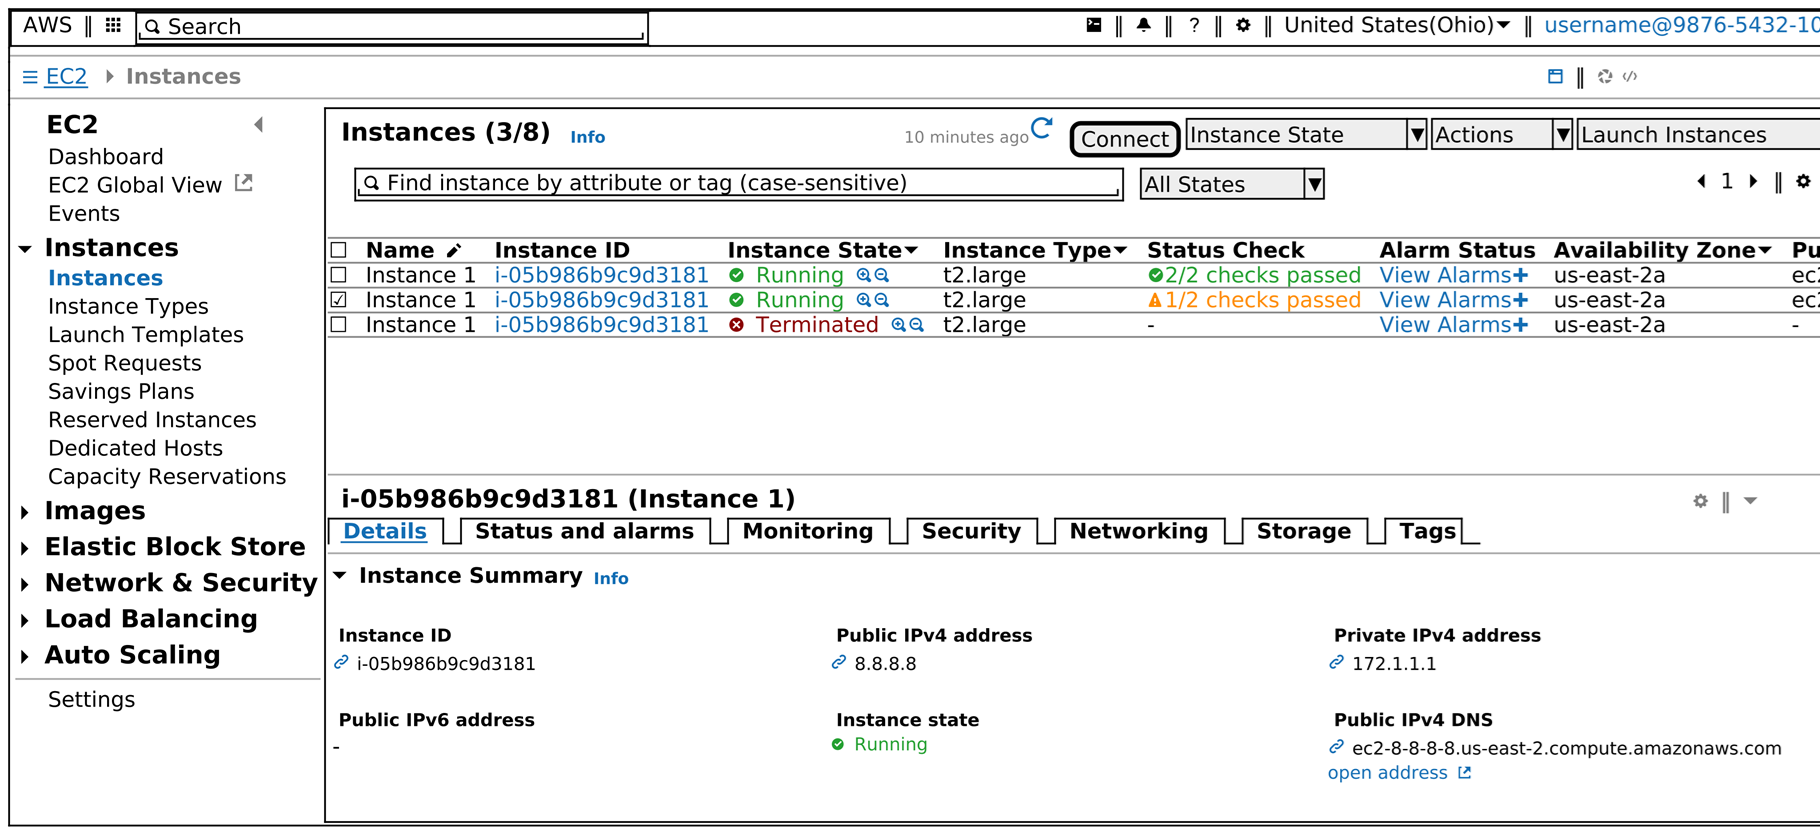
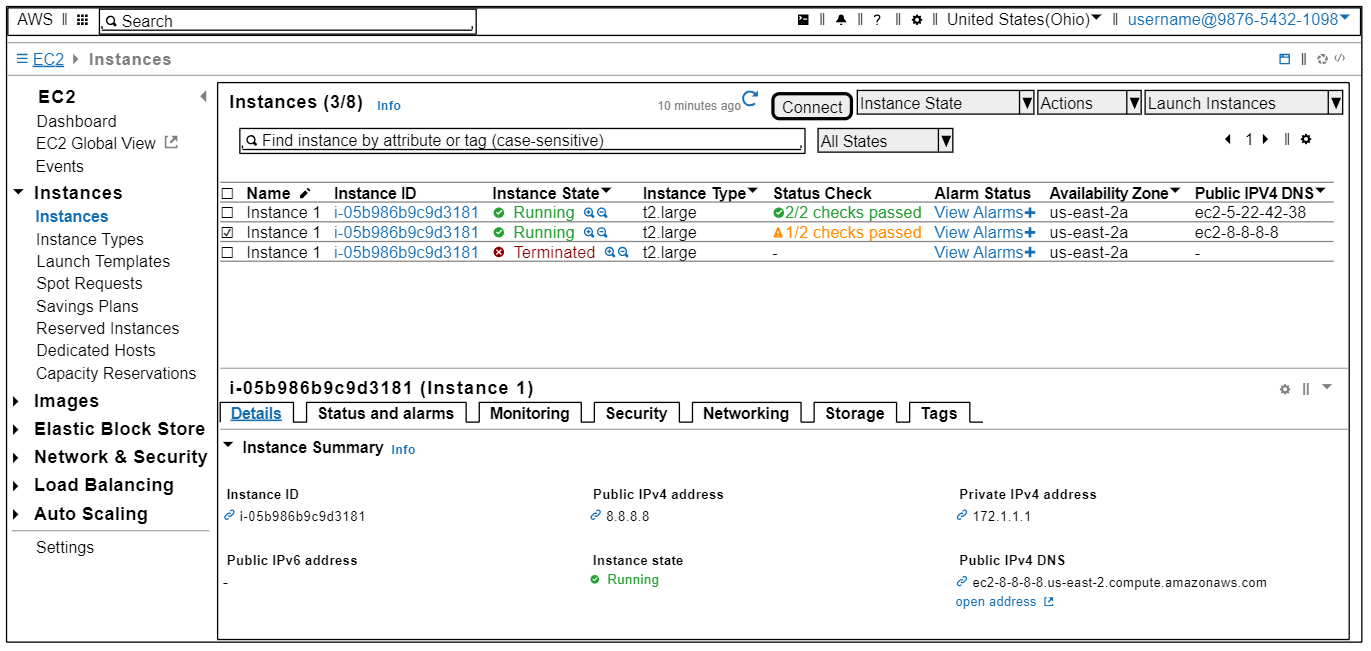
blog

diff --git a/_posts/2025-5-1-Mockup-as-Code-with-SaltUML.md b/_posts/2025-5-1-Mockup-as-Code-with-SaltUML.md
@@ -10,129 +10,20 @@ If you're working in any kind of development or planning role for a complex syst
 
 While many people are familiar with UML renderers for things like system and sequence diagrams, I recently discovered PlantUML's Salt subproject, and it has complete changed my approach to developing rough mockups.  With Salt, you can use simple markup language to collaborate on functionally accurate interface mockups, versioning it as you would any other code.  
 
-Consider the following screenshot of the AWS EC2 dashboard.
+
 
 #### Screenshot
+Consider the following screenshot of the AWS EC2 dashboard.
+
 ![](../images/ec2_dash.png)
 
 
 #### SaltUML Mockup
-Here's a rough mockup that was generated with fewer than 100 lines of SaltUML.
+Here's a rough mockup that was generated with fewer than [100 lines of SaltUML](../ecs-dash.puml).
 
 ![](../images/ec2_dash-mock.png)
 
 
-<code>
-  
-```plantuml
-
-@startsalt
-{+ 
-{+   AWS ‖ <&grid-three-up>  {+ "<&magnifying-glass> Search                          " }                                          <&terminal> ‖ <&bell> ‖ <&question-mark> ‖ <&cog> ‖ United States(Ohio)<&caret-bottom> ‖ <color:#146eb4>username@9876-5432-1098<&caret-bottom> }
- ---
- <color:#146eb4><&menu> <u>EC2</u> <color:gray> <&caret-right> <b>Instances                                                                                                                           <color:146eb4><&browser></color> ‖ <color:gray><&aperture> <&code>
----
-{
-    'LeftNav
-{
-    <b>   <size:14>EC2            <color:gray><&caret-left>
-{
-   Dashboard
-   EC2 Global View <color:gray><&external-link*1.2>
-   Events
-{}
-<&caret-bottom><b> <size:14>Instances
-   <color:#146eb4><b>Instances
-   Instance Types
-   Launch Templates
-   Spot Requests
-   Savings Plans
-   Reserved Instances
-   Dedicated Hosts
-   Capacity Reservations
-{}
-<&caret-right><b> <size:14>Images
-{}
-<&caret-right><b> <size:14>Elastic Block Store
-{}
-<&caret-right><b> <size:14>Network & Security
-{}
-<&caret-right><b> <size:14>Load Balancing
-{}
-<&caret-right><b> <size:14>Auto Scaling
----
-   Settings
-}
-}|
-' end leftNav
-' Top Main
-{+
-{
-    {}
-{ <b><size:14>Instances (3/8) </size> <size:9><color:#146eb4>Info</size>                            </b><size:9><color:gray>10 minutes ago<color:#146eb4><&reload*2> |{[Connect]|^ Instance State^|^ Actions^|^ Launch Instances^}}
-{  {+ "<&magnifying-glass> Find instance by attribute or tag (case-sensitive)"}| | ^ All States^ |                                   <&caret-left> 1 <&caret-right> ‖ <&cog>}
-{.}
-{T-
-    ☐ | <b>Name <&pencil> | <b>Instance ID | <b>Instance State<&caret-bottom> | <b>Instance Type<&caret-bottom> | <b>Status Check | <b>Alarm Status | <b>Availability Zone<&caret-bottom> | <b>Public IPV4 DNS<&caret-bottom> 
-    ☐ | Instance 1 | <color:146eb4>i-05b986b9c9d3181 | <color:25A032><&circle-check> Running <color:146eb4><&zoom-in><&zoom-out> | t2.large | <color:25A032><&circle-check>2/2 checks passed | <color:146eb4>View Alarms<&plus> | us-east-2a | ec2-5-22-42-38 
-    ☑ | Instance 1 | <color:146eb4>i-05b986b9c9d3181 | <color:25A032><&circle-check> Running <color:146eb4><&zoom-in><&zoom-out> | t2.large | <color:darkorange><&warning>1/2 checks passed | <color:146eb4>View Alarms<&plus> | us-east-2a | ec2-8-8-8-8
-    ☐ | Instance 1 | <color:146eb4>i-05b986b9c9d3181 | <color:darkred><&circle-x> Terminated <color:146eb4><&zoom-in><&zoom-out> | t2.large | - | <color:146eb4>View Alarms<&plus> | us-east-2a | -
-}
-{.}
-{.}
-{.}
-{.}
----
-{ <b><size:14>i-05b986b9c9d3181 (Instance 1)                                                                        </size><color:gray><&cog> ‖ <&caret-bottom>}
-{/  <color:146eb4><u><b>Details</u> | <b>Status and alarms | <b>Monitoring | <b>Security | <b>Networking | <b>Storage | <b>Tags  }
----
-{ <&caret-bottom> <b>Instance Summary <size:9><color:#146eb4>Info</size>}
-' lower panel
-{
-' Column 1
-{
-                                                  
-<size:10><b> Instance ID
-<color:#146eb4><&link-intact></color> <size:10>i-05b986b9c9d3181
-{.}
-<size:10><b> Public IPv6 address
--
-}|
-' Column 2
-{
-                                                  
-<size:10><b> Public IPv4 address
-<color:#146eb4><&link-intact></color> <size:10>8.8.8.8
-{.}
-<size:10><b> Instance state
-<size:10><color:25A032><&circle-check> Running 
-
-{.}
-}|
-' Column 3
-{
-                                                  
-<size:10><b> Private IPv4 address
-<color:#146eb4><&link-intact></color> <size:10>172.1.1.1
-{.}
-<size:10><b> Public IPv4 DNS
-<color:#146eb4><&link-intact></color> <size:10>ec2-8-8-8-8.us-east-2.compute.amazonaws.com
-<size:10><color:#146eb4>open address <&external-link>
-
-{.}
-}
-}
-}
-}
-}
-' end top main
-}
-}
-@endsalt
-
-```
-
-</code>
 
 ## Getting Started
 
@@ -141,4 +32,4 @@ The learning curve is remarkably gentle. Within a few hours of experimenting, yo
 Salt explicitly focuses on **function** over form.  Users with light HTML experience will find the [Creole](https://plantuml.com/creole) engine very flexible in formatting.  You can declare your own sprites, but the [Openiconic](https://plantuml.com/openiconic) library has an analog for virtually every icon I have needed.  I have gathered a handful of templates for mobile and web apps in the [salt](https://github.com/pgaljan/dac/blob/main/salt.md) section of the [dac](https://github.com/pgaljan/dac) project, which you can use regardless of the renderer you choose.  
 
 ## Results
-Once I integrated this into my design workflows, I've found that my designs are much more consistent and accurate, while being much more fluid, with versionable, iterable assets.  I've created a library of re-usable templates like the AWS dashboard which can be leveraged across projects, improving collaboration and communication.
+Once I integrated this into my design workflows, I've found that my designs are much more consistent and accurate, while being much more fluid, with versionable, iterable assets.  I've created a library of re-usable templates like the AWS dashboard which can be leveraged across projects, dramatically improving collaboration and communication.
